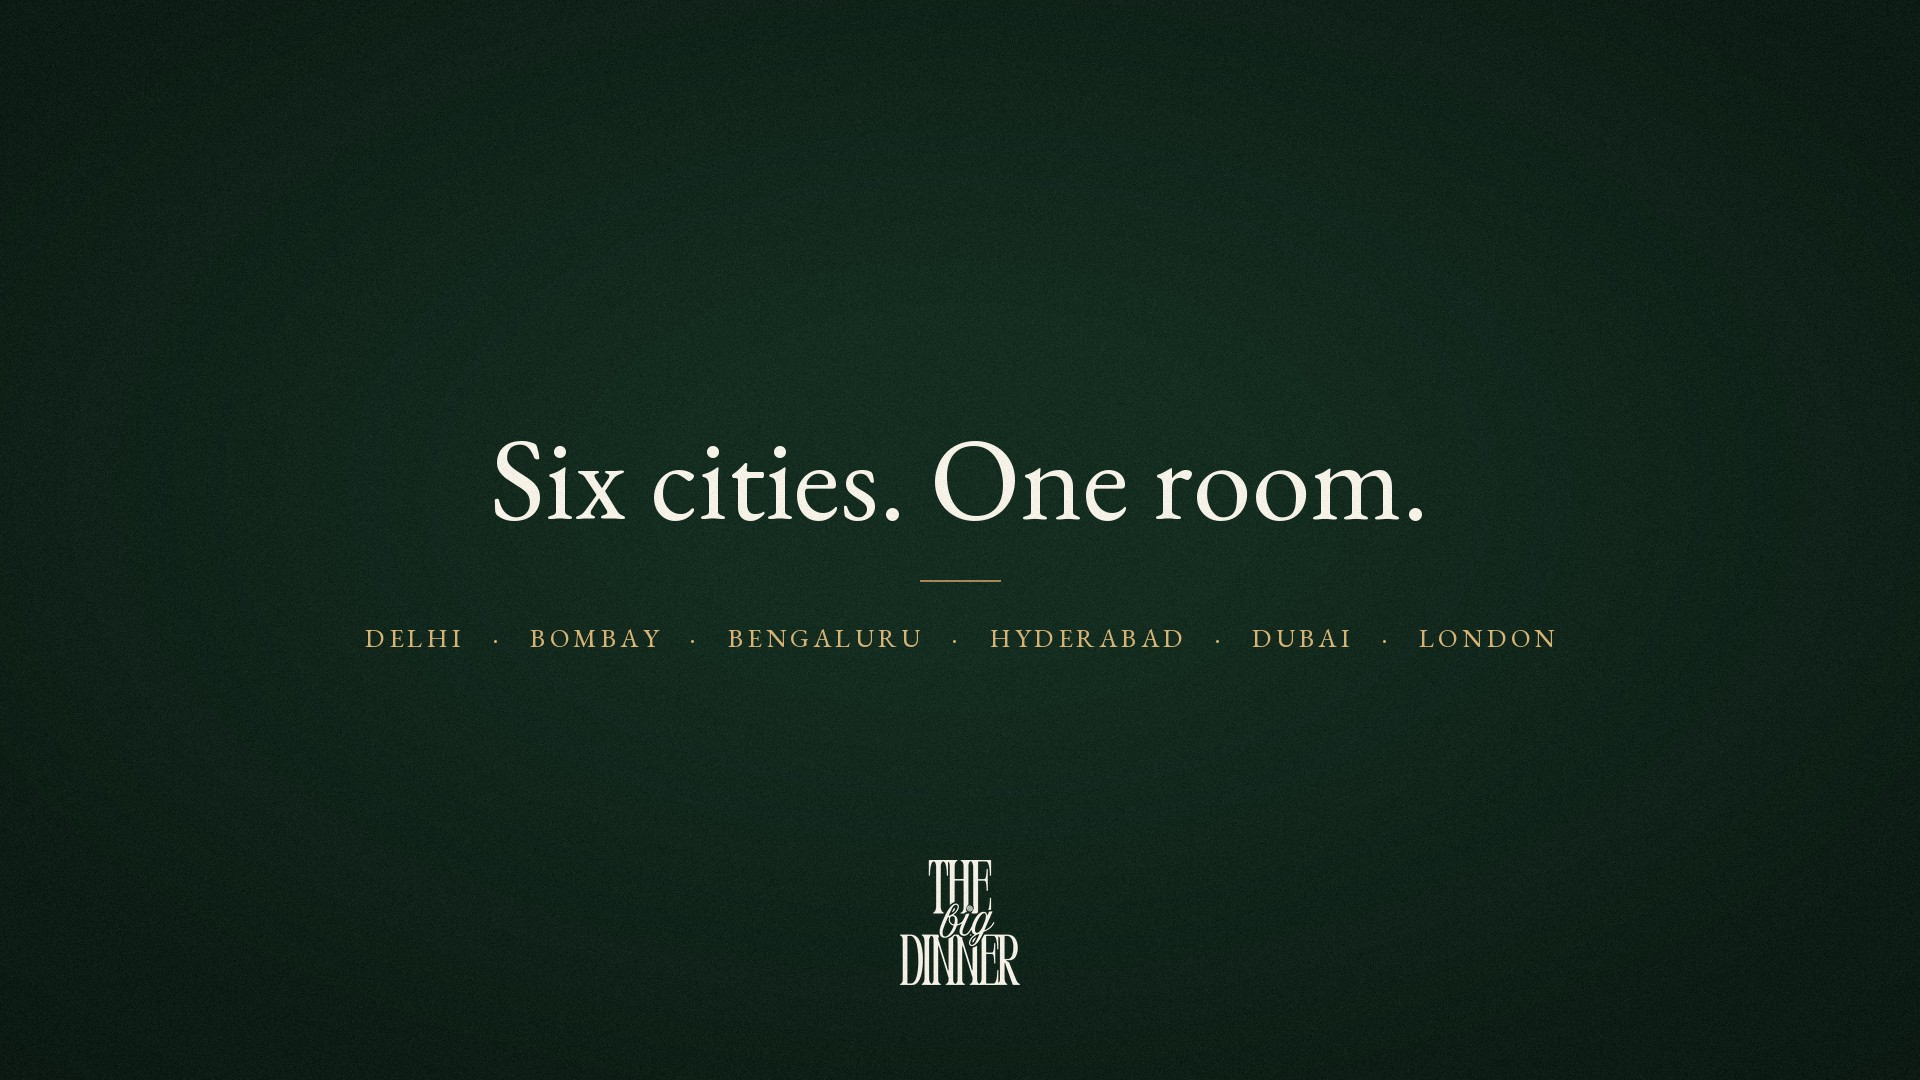
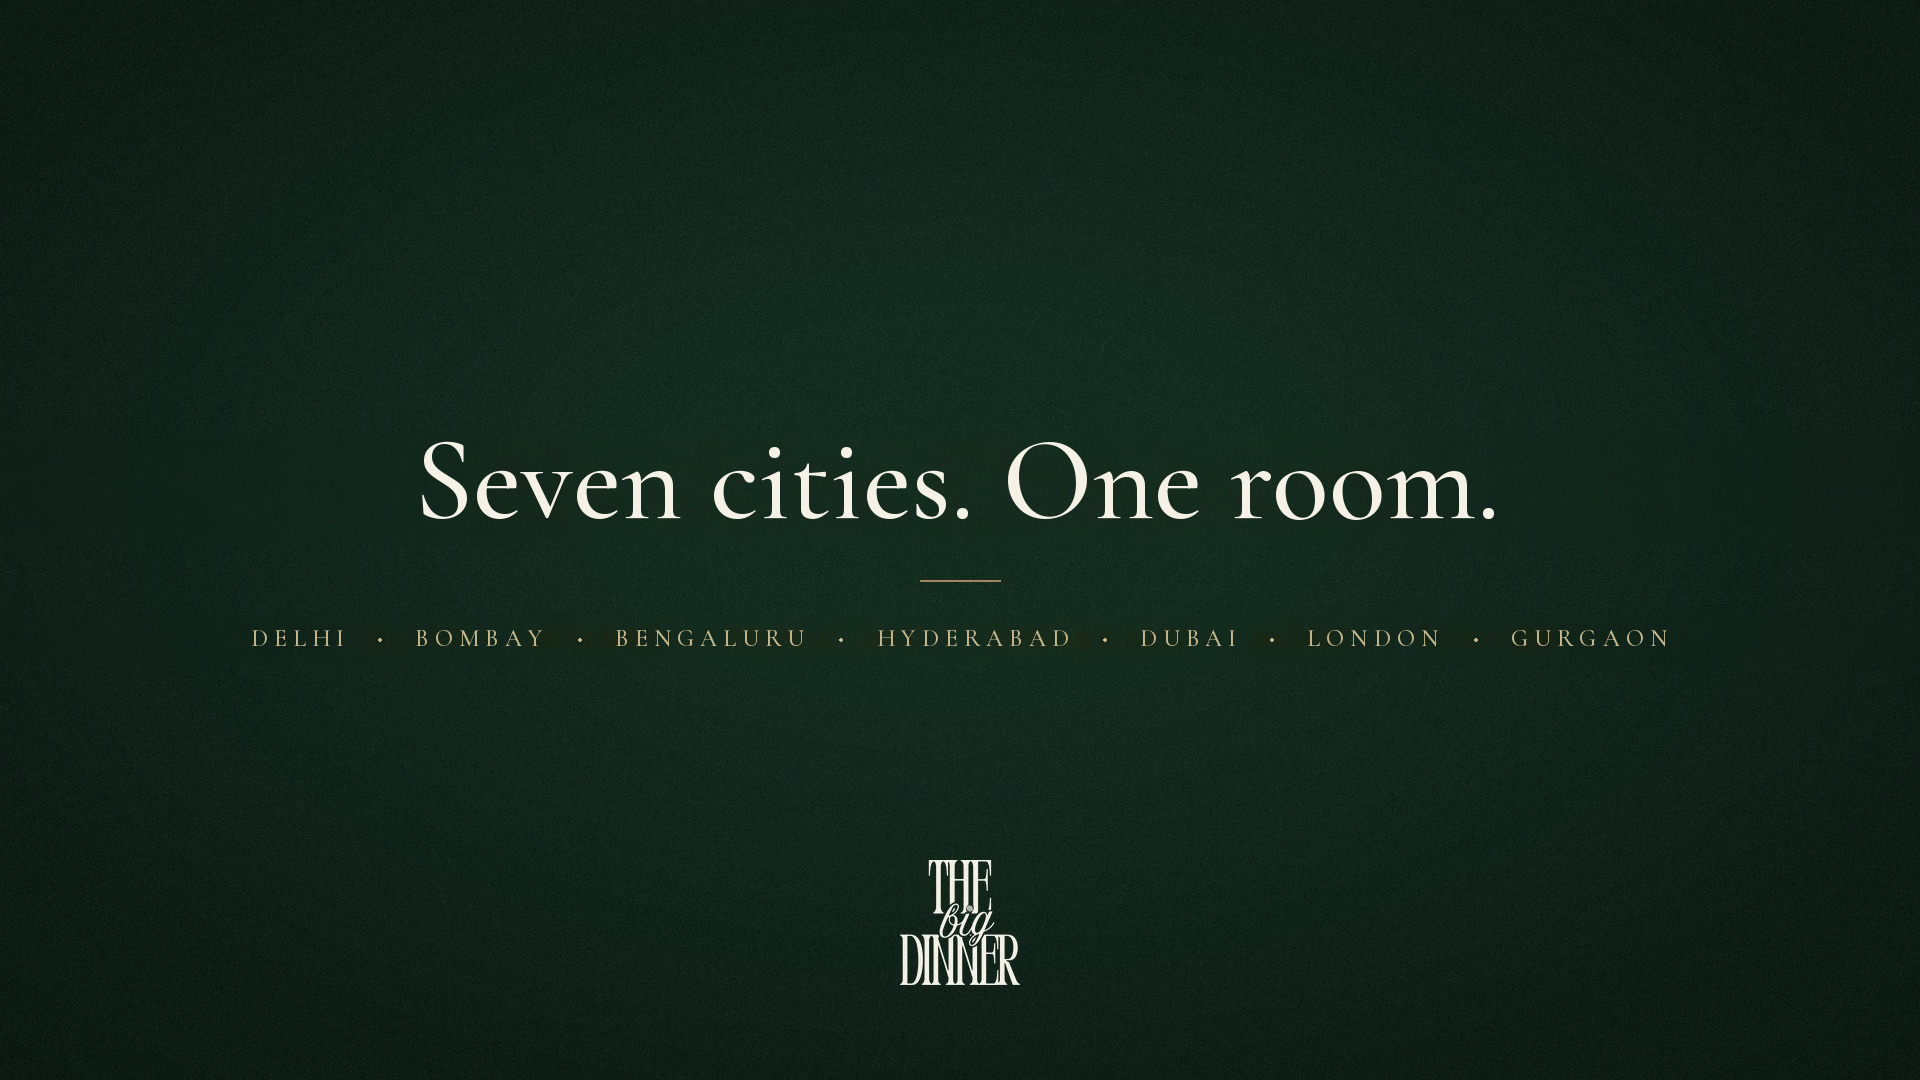
Add Gurgaon to the city roster and invitation form. (#50)
Gurgaon follows the existing city lists, picker, and footer, and opens its own invitation form.

Changed region(s): [[0.2188, 0.3972, 0.7812, 0.4889], [0.1875, 0.5806, 0.625, 0.6111], [0.6562, 0.5806, 0.8438, 0.6111]]

diff --git a/index.html b/index.html
@@ -249,7 +249,7 @@
     <div class="frame-scrim"></div>
     <div class="frame-copy">
       <p class="label">Where we gather</p>
-      <h2 class="display art-title"><span>Six cities.</span> <span>One room.</span></h2>
+      <h2 class="display art-title"><span>Seven cities.</span> <span>One room.</span></h2>
     </div>
   </section>
 
@@ -335,6 +335,7 @@
         <a class="btn-line" href="https://forms.gle/Am7Z96A1Ur1ZHF2X6" target="_blank" rel="noopener noreferrer">Apply for Bombay</a>
         <a class="btn-line" href="https://docs.google.com/forms/d/e/1FAIpQLSdZrsP5Gd6toGWuQ10uEYVDx4f6BnMFgIyjZlvAX9X7suuwQA/viewform" target="_blank" rel="noopener noreferrer">Apply for London</a>
         <a class="btn-line" href="https://forms.gle/maV5MoNA5wGTWkjZ9" target="_blank" rel="noopener noreferrer">Apply for Hyderabad</a>
+        <a class="btn-line" href="https://forms.gle/crgWDVsHNKjjUZ336" target="_blank" rel="noopener noreferrer">Request an Invitation for Gurgaon</a>
       </div>
     </div>
   </section>
@@ -342,7 +343,7 @@
 
 <footer class="colophon">
   <p class="wordmark">The Big Dinner</p>
-  <p class="label">Delhi · Bombay · London · Bengaluru · Hyderabad · Dubai</p>
+  <p class="label">Delhi · Bombay · London · Bengaluru · Hyderabad · Dubai · Gurgaon</p>
   <p class="colophon-line">The room fills itself with the people who show up.</p>
   <p class="colophon-mail"><a href="mailto:host@thebigdinner.in">host@thebigdinner.in</a></p>
   <nav class="colophon-nav" aria-label="House notes">
@@ -385,6 +386,7 @@
         <option value="bengaluru">Bengaluru</option>
         <option value="hyderabad">Hyderabad</option>
         <option value="dubai">Dubai</option>
+        <option value="gurgaon">Gurgaon</option>
       </select>
     </div>
     <button class="btn" id="cityContinue" type="button">Continue</button>
@@ -511,7 +513,8 @@
     london: "https://docs.google.com/forms/d/e/1FAIpQLSdZrsP5Gd6toGWuQ10uEYVDx4f6BnMFgIyjZlvAX9X7suuwQA/viewform",
     bengaluru: "https://docs.google.com/forms/d/e/1FAIpQLSeOmRzh8oDVehdVauDcbmUsJTYla-mTBYo_91mjRAtQsW8XYw/viewform?usp=send_form",
     hyderabad: "https://forms.gle/maV5MoNA5wGTWkjZ9",
-    dubai: "https://forms.gle/59dfvTV3jtLq1ws26"
+    dubai: "https://forms.gle/59dfvTV3jtLq1ws26",
+    gurgaon: "https://forms.gle/crgWDVsHNKjjUZ336"
   };
 
   var formNotice = document.getElementById("formNotice");
